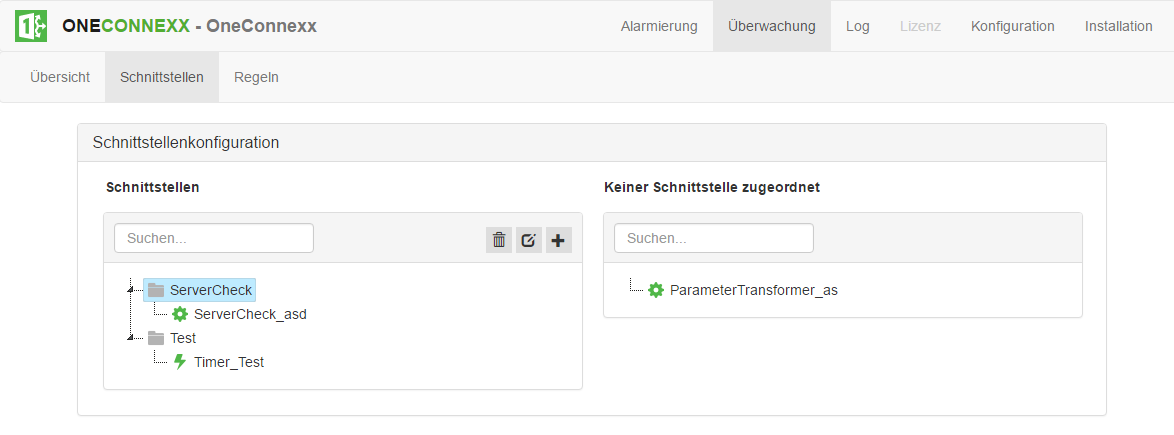
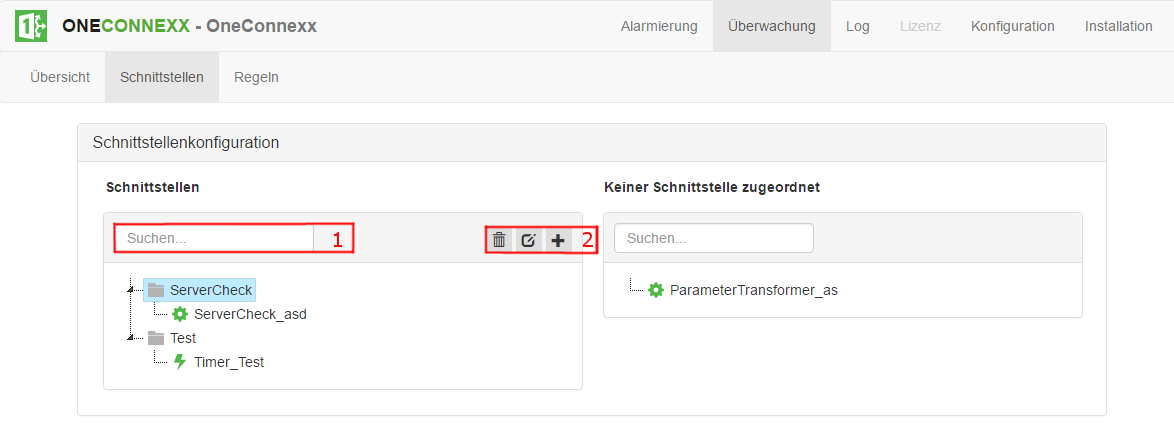
Arbeit an Überwachungsseite

Changed region(s): [[0.092, 0.508, 0.3066, 0.5977], [0.3986, 0.508, 0.5213, 0.5977]]

diff --git a/_pages/webclient/de/ueberwachung.md b/_pages/webclient/de/ueberwachung.md
@@ -58,9 +58,24 @@ Schnittstellen welche Fehlerhafte Transaktionen enthalten werden von Anfang an A
 ### 4. Transaktion löschen
   Mit dieser Schaltfläche kann eine Transaktion gelöscht werden. Es öffnet sich ein Dialog mit der Aufforderung zur Bestätigung des Löschens. Ein Klick auf die Schaltfläche «Löschen» führt den Befehl zum Löschen aus. Ein Klick auf die Schaltfläche Abbrechen führt wieder zurück auf die Übersichtseite
   
-## __Schnitstellenkonfiguration__
+## __Schnittstellenkonfiguration__
 In der Ansicht «Schnittstellen» können die Schnittstellen konfiguriert werden. Eine Schnittstelle dient dazu, die konfigurierten AddIn Instanzen zu Ordnen und Gruppieren.
 
 ![X]({{ site.baseUrl }}/assets/content-images/webclient/de/interfaceconfiguration.png "Schnittstellenkonfiguration")
+
+In der Linken Ansicht befinden sich die Schnittstellen und die zugeordneten AddIns, in der rechten die konfigurierten AddIns welche keiner Schnittstelle zugeordnet sind
+
+### 1. Textsuche
+Die Textsuche schränkt die Liste auf Einträge ein, welche einen bestimmten Ausdruck enthalten.
+Im Unterschied zu vielen Textsuchfeldern im OneConnexx besteht hier keine Möglichkeit Regulären Ausdrücke zu verwenden 
+
+### 2. Steuerschaltflächen
+Mit den Konfigurationsschaltflächen können die Schnittstellen verwaltet und konfiguriert werden
+Mit dem Symbol links kann eine Schnittstelle gelöscht werden. Eine Schnittstelle kann nur gelöscht werden, wenn keine Transaktionen oder Regeln dazu vorhanden sind. Die Untergeordneten AddIns werden automatisch wieder in die rechte Ansicht verschoben.
+Mit dem Symbol in der Mitte kann der Name einer Schnittstelle bearbeitet werden.
+Mit dem Symbol rechts kann eine neue Schnittstelle hinzugefügt werden.
+Die AddIns können ganz einfach per Drag and Drop von der Rechten Ansicht in die linke gezogen und so den Schnittstellen zugeordnet und beliebig verschoben werden.
+Einer Schnittstelle können beliebig viele AddIns hinzugefügt werden
+
 
 ## __Regeln__
